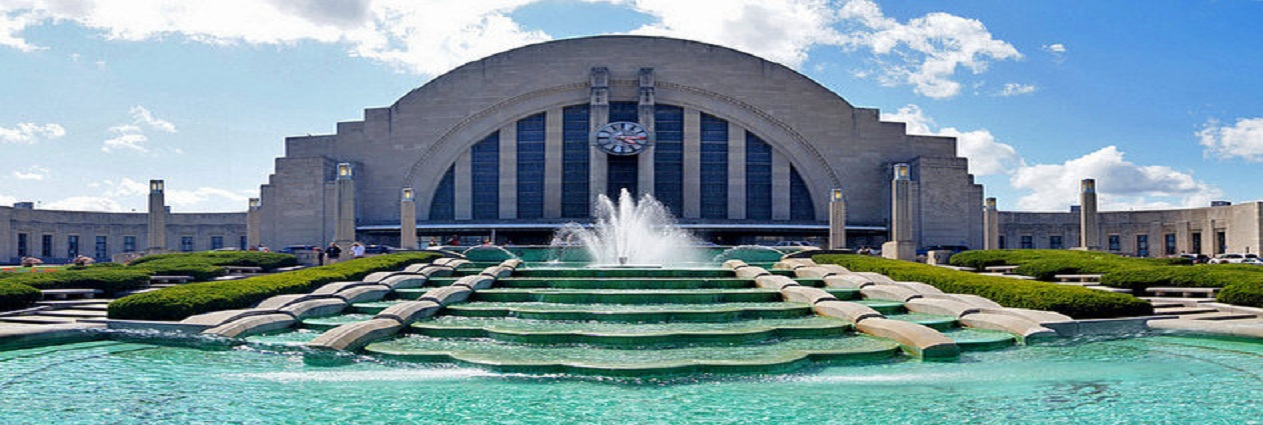
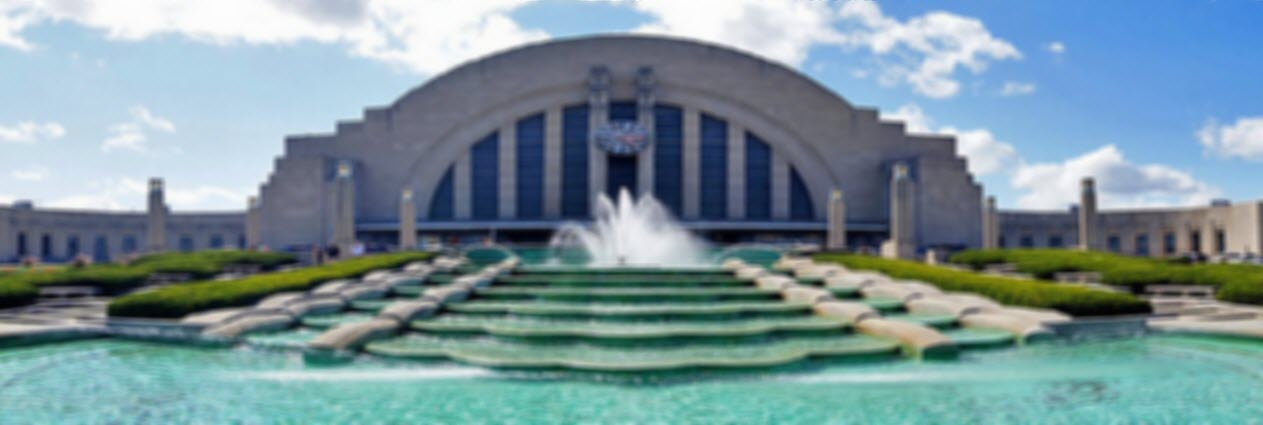
Modified portfolio.html

diff --git a/src/portfolio.html b/src/portfolio.html
@@ -93,6 +93,123 @@
     </div>
     <!--=== End Header ===-->
 
+    <!--=== Breadcrumbs v3 ===-->
+    <div class="breadcrumbs-v3 img-v1">
+        <div class="container text-center">
+            <p>Portfolio</p>
+            <h1>of web Sites and Programs</h1>
+        </div><!--/end container-->
+    </div>
+    <!--=== End Breadcrumbs v3 ===-->
+
+    <!--=== Cube-Portfdlio ===-->
+    <div class="cube-portfolio container margin-bottom-60">
+        
+
+        <div id="grid-container" class="cbp-l-grid-agency">
+            <div class="cbp-item graphic">
+                <div class="cbp-caption margin-bottom-20">
+                    <div class="cbp-caption-defaultWrap">
+                        <img src="img/sitetoid_port.png" alt="">
+                    </div>
+                    <div class="cbp-caption-activeWrap">
+                        <div class="cbp-l-caption-alignCenter">
+                            <div class="cbp-l-caption-body">
+                                <ul class="link-captions no-bottom-space">
+                                </ul>
+                            </div>
+                        </div>
+                    </div>
+                </div>
+                <div class="cbp-title-dark">
+                    <div class="cbp-l-grid-agency-title">Design Object 01</div>
+                    <div class="cbp-l-grid-agency-desc">Web Design</div>
+                </div>
+            </div>
+        </div><!--/end Grid Container-->
+    </div>    
+    <!--=== End Cube-Portfdlio ===-->
+
+    <!--=== Footer Version 1 ===-->
+    <div class="footer-v1">
+        <div class="footer">
+            <div class="container">
+                <div class="row">                 
+
+                    <!-- Address -->
+                    <div class="col-md-3 map-img md-margin-bottom-40">
+                        <div class="headline"><h2>Contact Info</h2></div>                         
+                        <address class="md-margin-bottom-40">
+                           Christopher Hargis <br />
+                            641 South Mason Rd, Taylor Mill 41015 <br />
+                            Kentucky, US <br />
+                            Phone: 123-456-7890 <br />
+                            Email: <a href="mailto:chris.hargis@slashthought.com" class="">chris.hargis@slashthought.com</a>
+                        </address>
+                    </div><!--/col-md-3-->
+                    <!-- End Address -->
+                </div>
+            </div> 
+        </div><!--/footer-->
+
+        <div class="copyright">
+            <div class="container">
+                <div class="row">
+                    <div class="col-md-6">                     
+                        <p>
+                            2015 &copy; All Rights Reserved.
+                           <a href="#">Privacy Policy</a> | <a href="#">Terms of Service</a>
+                        </p>
+                    </div>
+
+                    <!-- Social Links -->
+                    <div class="col-md-6">
+                        <ul class="footer-socials list-inline">
+                            <li>
+                                <a href="#" class="tooltips" data-toggle="tooltip" data-placement="top" title="" data-original-title="Facebook">
+                                    <i class="fa fa-facebook"></i>
+                                </a>
+                            </li>
+                            <li>
+                                <a href="#" class="tooltips" data-toggle="tooltip" data-placement="top" title="" data-original-title="Skype">
+                                    <i class="fa fa-skype"></i>
+                                </a>
+                            </li>
+                            <li>
+                                <a href="#" class="tooltips" data-toggle="tooltip" data-placement="top" title="" data-original-title="Google Plus">
+                                    <i class="fa fa-google-plus"></i>
+                                </a>
+                            </li>
+                            <li>
+                                <a href="#" class="tooltips" data-toggle="tooltip" data-placement="top" title="" data-original-title="Linkedin">
+                                    <i class="fa fa-linkedin"></i>
+                                </a>
+                            </li>
+                            <li>
+                                <a href="#" class="tooltips" data-toggle="tooltip" data-placement="top" title="" data-original-title="Pinterest">
+                                    <i class="fa fa-pinterest"></i>
+                                </a>
+                            </li>
+                            <li>
+                                <a href="#" class="tooltips" data-toggle="tooltip" data-placement="top" title="" data-original-title="Twitter">
+                                    <i class="fa fa-twitter"></i>
+                                </a>
+                            </li>
+                            <li>
+                                <a href="#" class="tooltips" data-toggle="tooltip" data-placement="top" title="" data-original-title="Dribbble">
+                                    <i class="fa fa-dribbble"></i>
+                                </a>
+                            </li>
+                        </ul>
+                    </div>
+                    <!-- End Social Links -->
+                </div>
+            </div> 
+        </div><!--/copyright-->
+    </div>     
+    <!--=== End Footer Version 1 ===-->
+</div><!--/wrapper-->
+
 
 
 

diff --git a/src/css/blocks.css b/src/css/blocks.css
@@ -205,7 +205,7 @@
 }
 
 .breadcrumbs-v3.img-v1 {
-  background: url(../img/breadcrumbs/img1.jpg) no-repeat;
+  background: url(../img/museum.jpg) no-repeat;
   background-size: cover;
   background-position: center center;
 }
